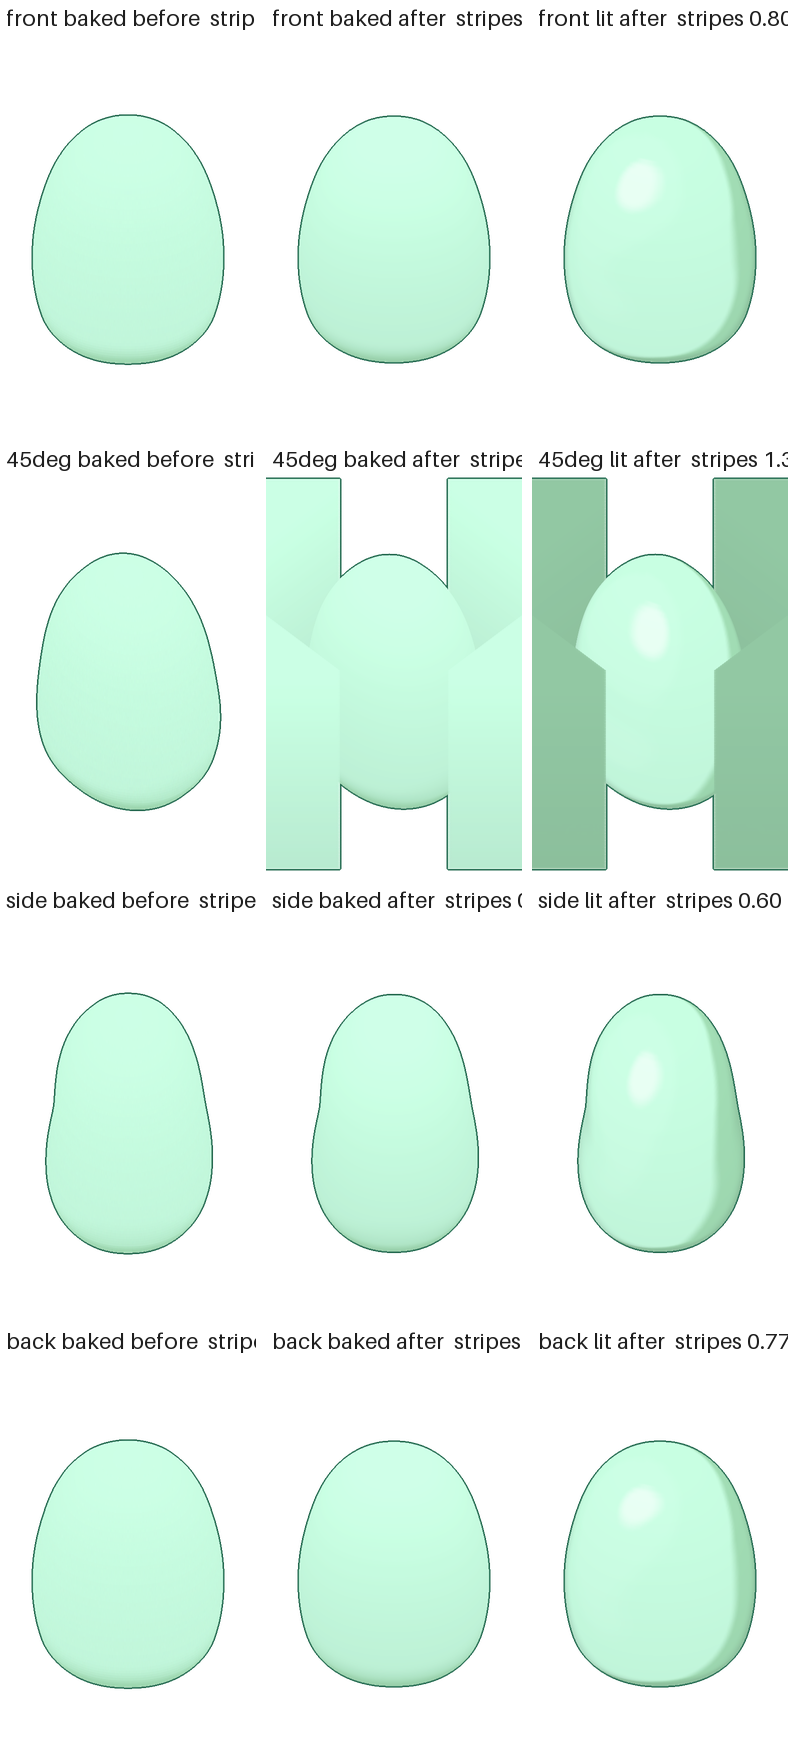
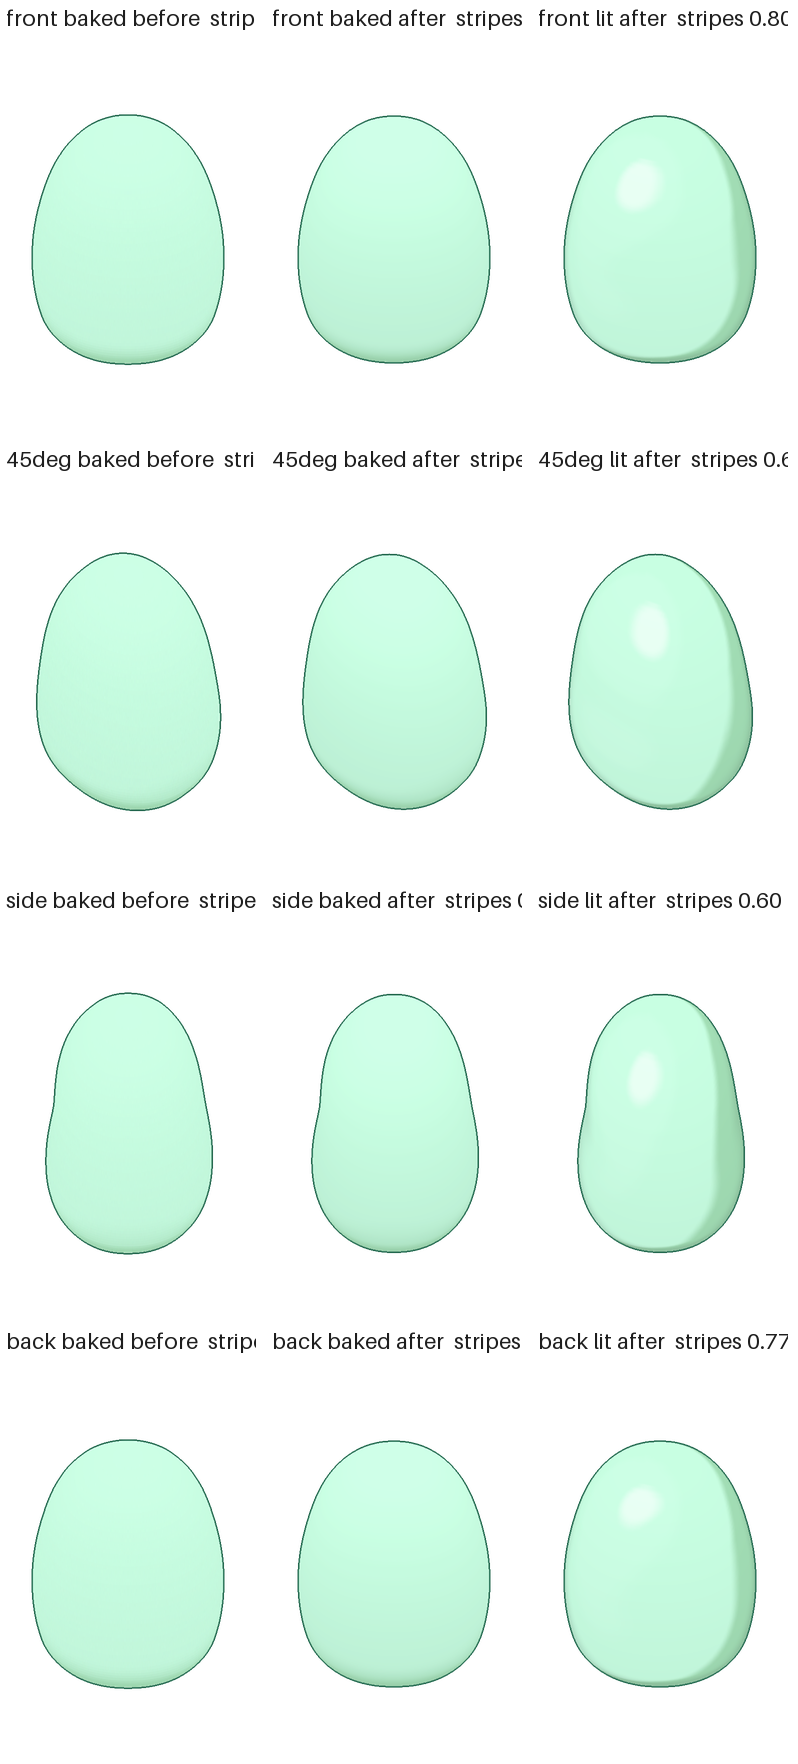
Body smoothing: fix SDF rotation fill (45 deg artefact), final before/after previews
Stripe metric (lower = smoother), lit before -> after: front 0.93->0.80,
45 deg 0.77->0.63, side 0.80->0.60, back 0.91->0.77; baked 0.42-0.48 ->
0.25-0.27. Silhouette IoU 0.989 (max 3 px = the removed layer staircase).

Claude-Session: https://claude.ai/code/session_01GaQdNtpJrmYahtMWqUtQo6

Changed region(s): [[0.5414, 0.2494, 0.782, 0.4989], [0.8722, 0.2494, 0.9925, 0.4989], [0.3308, 0.2494, 0.4511, 0.4989]]

diff --git a/output/body3d/index.html b/output/body3d/index.html
@@ -130,6 +130,13 @@ figcaption { font-size: 12px; color: var(--muted); }
   </section>
 
   <section class="block">
+    <div class="head"><h2>胴体の縞の改善（修正前と後）</h2><p>形状と既存の64枚・メッシュはそのまま。隣の層との間を補間して描画（Body/SDF, Body/NormalExt を追加）</p></div>
+    <figure><img src="Preview/smoothing_lit_zoom.png" alt="法線ライティングでの修正前と後の拡大比較（正面・45度・側面・背面）"><figcaption>smoothing_lit_zoom.png · 左が修正前、右が修正後（法線ライティング、頭部の拡大）</figcaption></figure>
+    <figure><img src="Preview/smoothing_lit_before_after.png" alt="法線ライティングでの修正前と後の全体比較"><figcaption>smoothing_lit_before_after.png · 全体</figcaption></figure>
+    <figure><img src="Preview/lighting_comparison.png" alt="焼き込みの修正前・後と法線ライティングの比較"><figcaption>lighting_comparison.png · 焼き込み（修正前 / 修正後）と法線ライティング（修正後）</figcaption></figure>
+  </section>
+
+  <section class="block">
     <div class="head"><h2>しっぽのパーツ</h2><p>Tail/ · 背中の下の丸いしっぽ。体とのつなぎ目は丸く埋めています</p></div>
     <figure><img src="Preview/limbs_vs_art.png" alt="元絵に胴体・手足・しっぽの輪郭を重ねた画像"><figcaption>limbs_vs_art.png · 赤 = 胴体＋腕＋足＋しっぽのモデルの輪郭（正面・側面・背面）。背面図のしっぽは輪郭の内側に描かれているため、背面では赤線に出ません</figcaption></figure>
   </section>

diff --git a/tools/sprite_stack/body3d/smooth_stack.py b/tools/sprite_stack/body3d/smooth_stack.py
@@ -110,8 +110,10 @@ def _f(a):
 
 def _prep(albedo, normal, sdf8, yaw, S, sq):
     """Rotate + squash one layer's channels once."""
-    def tr(ch, resample=Image.BILINEAR):
-        im = Image.fromarray(_f(ch), "F").resize((S, S), resample).rotate(yaw, resample=resample)
+    def tr(ch, resample=Image.BILINEAR, fill=0.0):
+        # corners exposed by the rotation take `fill` (the SDF needs "outside", not 0 = on the edge)
+        im = Image.fromarray(_f(ch), "F").resize((S, S), resample).rotate(yaw, resample=resample,
+                                                                           fillcolor=fill)
         return np.asarray(im.resize((S, sq), resample))
     a = albedo[..., 3] / 255.0
     rgb = np.stack([tr(albedo[..., k] / 255.0 * a) for k in range(3)], -1)
@@ -128,7 +130,7 @@ def _prep(albedo, normal, sdf8, yaw, S, sq):
     N = np.stack([nv[0] * c - nv[1] * s, nv[0] * s + nv[1] * c, nv[2]], -1)
     ln = np.linalg.norm(N, axis=-1, keepdims=True)
     N = np.divide(N, ln, out=np.zeros_like(N), where=ln > 0.5)    # 0 where no normal
-    d = tr(decode(sdf8)) * (S / albedo.shape[0])                   # px at output scale
+    d = tr(decode(sdf8), fill=-SDF_RANGE) * (S / albedo.shape[0])  # px at output scale
     return {"rgb": rgb, "a": aa, "N": N, "d": d}
 
 
